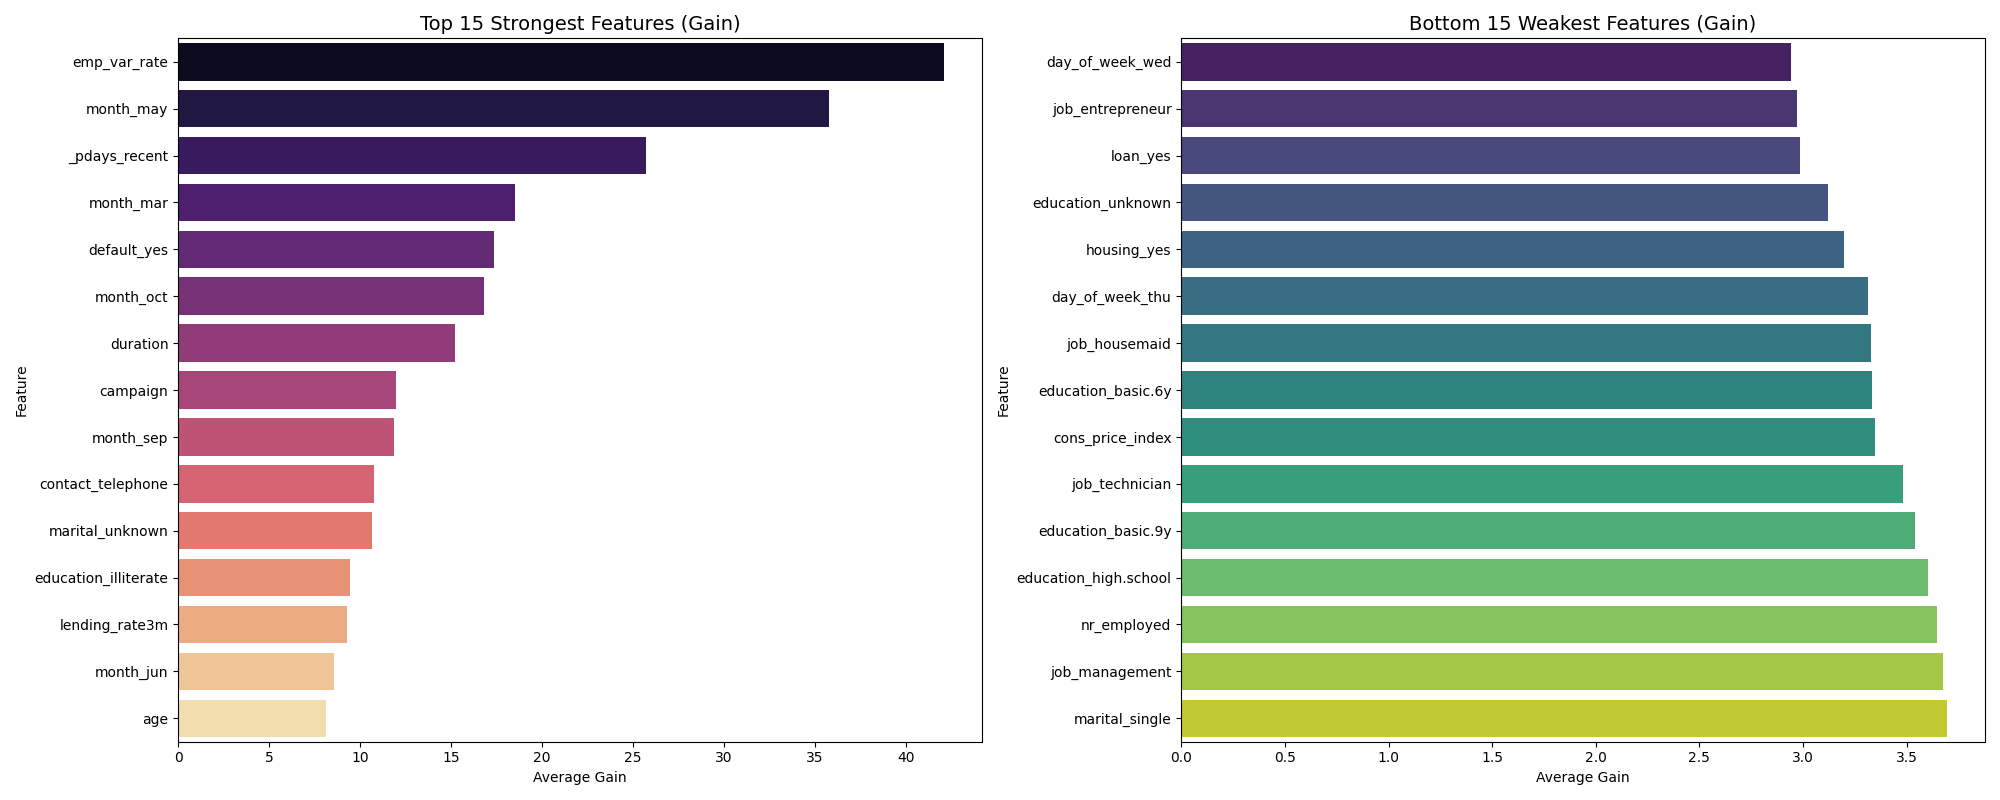
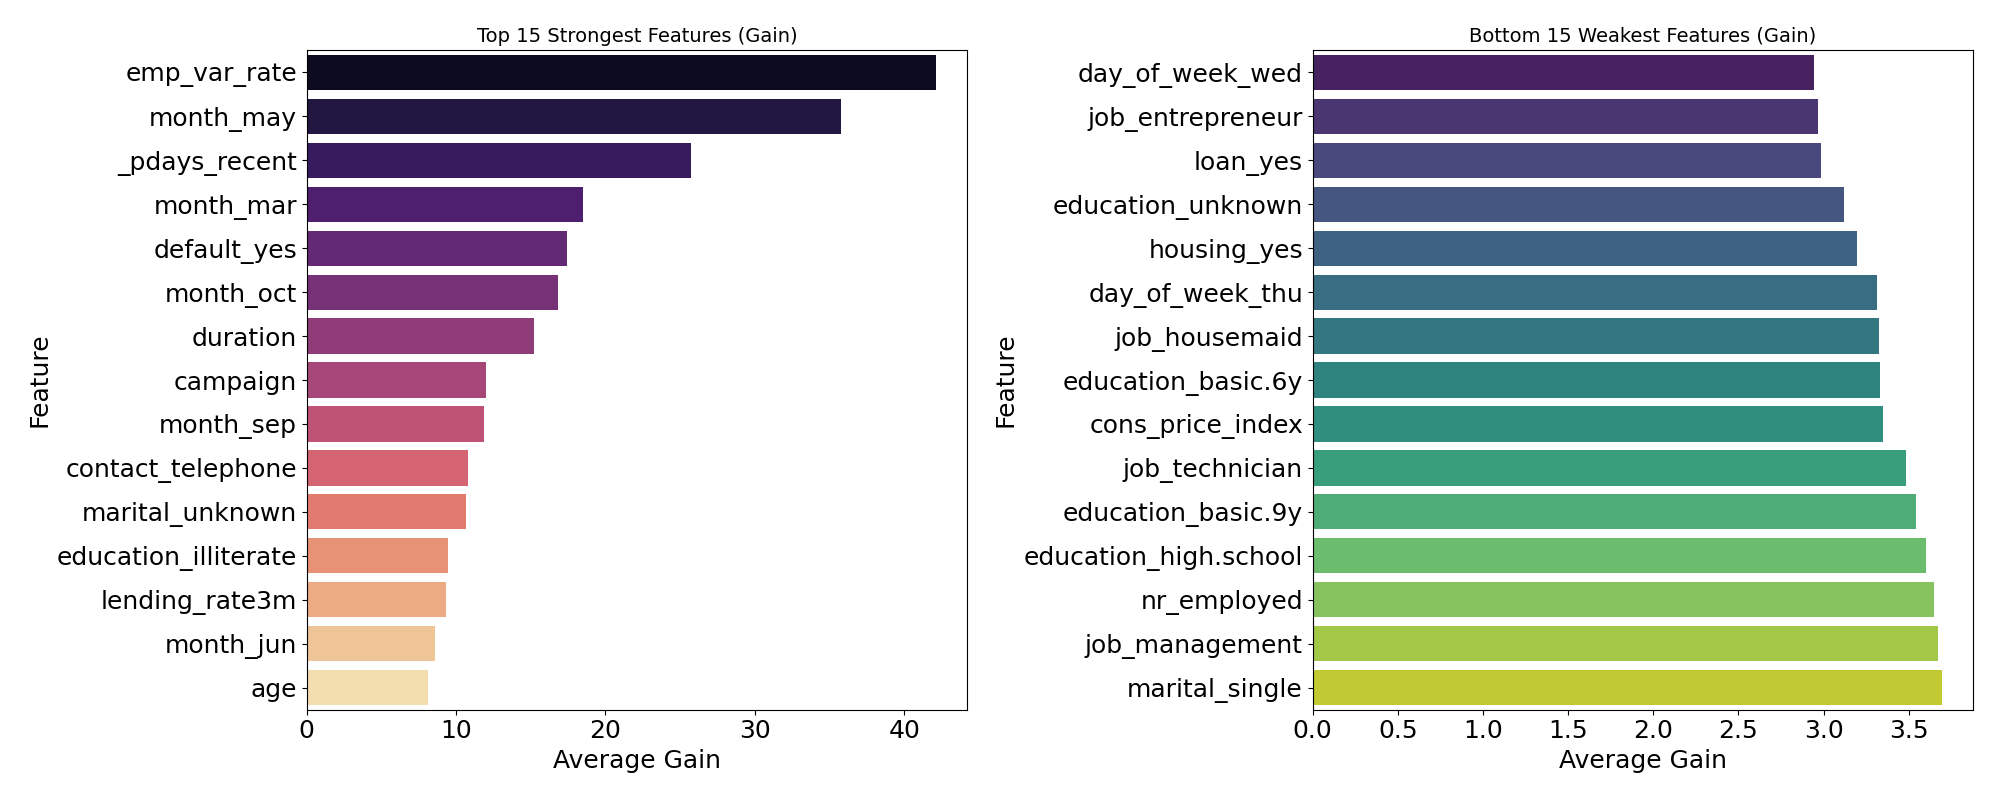
feat:change pictures to propersize

diff --git a/src/utils.py b/src/utils.py
@@ -4,6 +4,7 @@ import pandas as pd
 import matplotlib.pyplot as plt
 from src.preprocess import  preprocess_for_model
 import seaborn as sns
+plt.rcParams.update({'font.size': 18})
 
 def load_trained_model(model_name):
     # 假设你的模型保存在 'results/' 或 'models/' 目录下

diff --git a/src/model_configs.py b/src/model_configs.py
@@ -9,7 +9,6 @@ def get_model(model_name):
     if model_name == "logistic_baseline":
         return LogisticRegression( max_iter=1000)
     elif model_name == "XG":
-   
         return XGBClassifier(
             n_estimators=2000,
             learning_rate=0.004,
